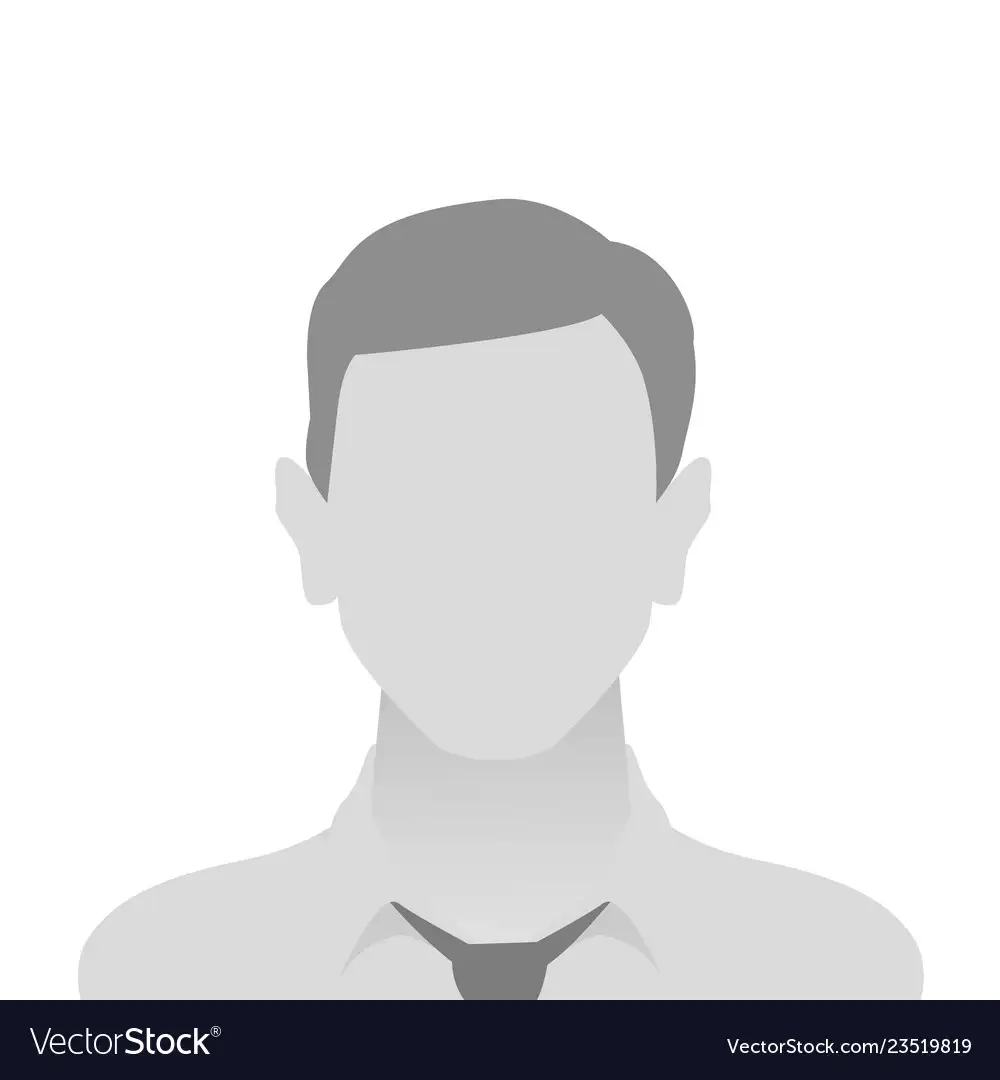
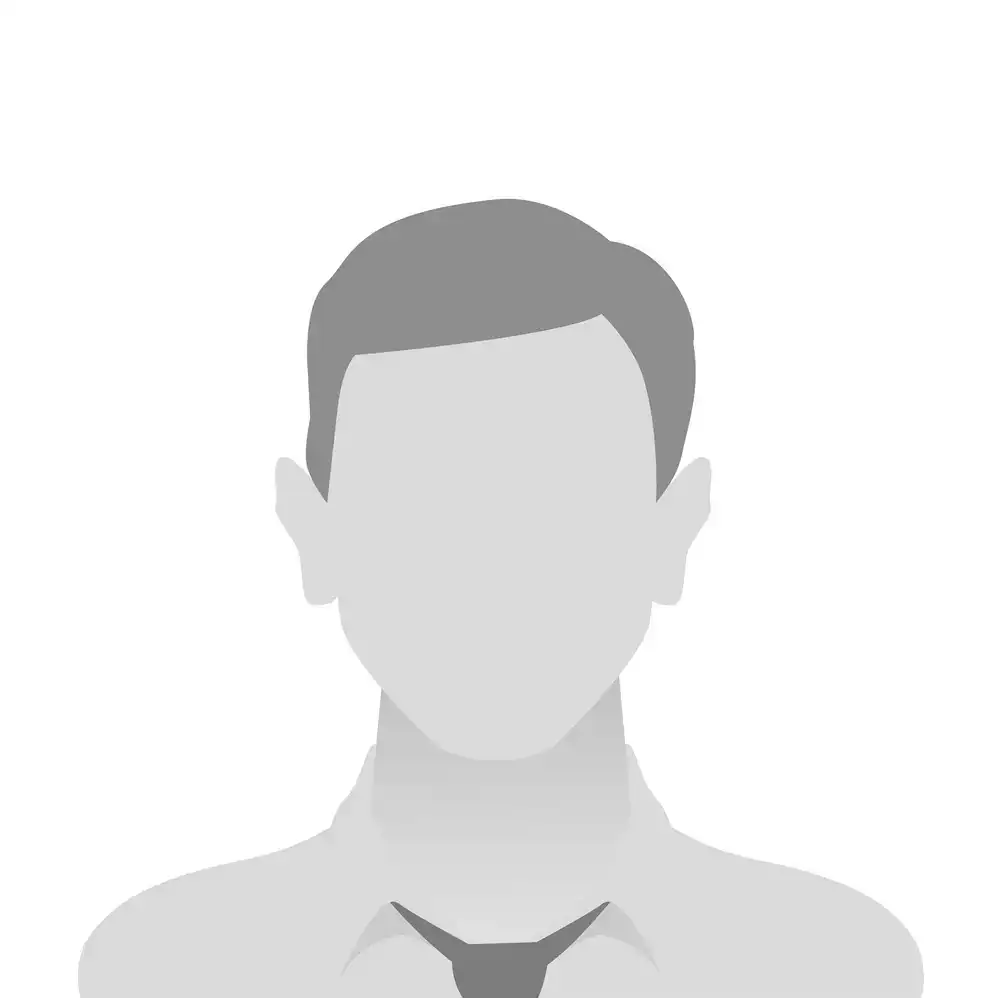
update schedule

diff --git a/index.html b/index.html
@@ -418,8 +418,8 @@ Although you can use them, for a more unique website, replace these images with 
             </div>
             
             <div><!-- speaker-->
-              <img src="images/speakers/placeholder-female.webp" alt="Sarah Mader" width="220px" style="height: 220px; object-fit: cover;">
-              <b class="text-primary">Sarah Mader</b>
+              <img src="images/speakers/placeholder-male.webp" alt="Moritz Thomas" width="220px" style="height: 220px; object-fit: cover;">
+              <b class="text-primary">Moritz Thomas</b>
               <p></p>
             </div>
 
